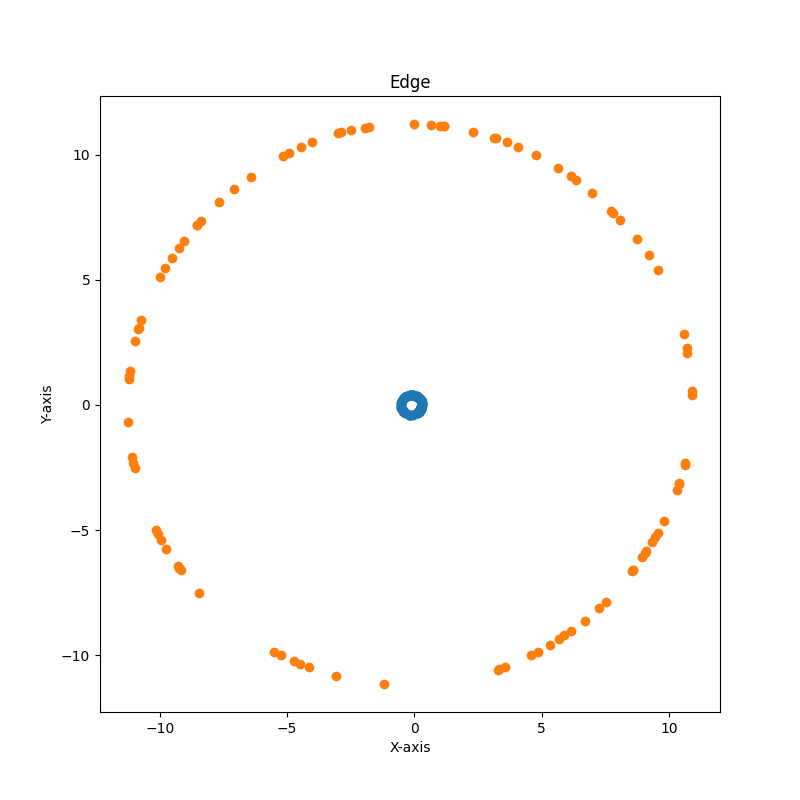
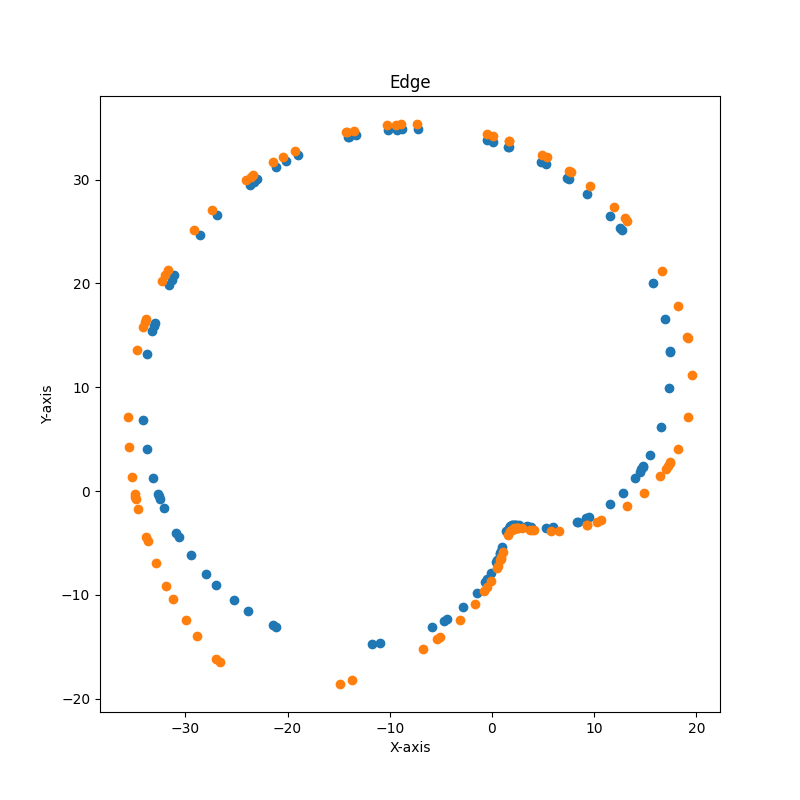
SGN-theta-heu-get_R

diff --git a/iod/metra.py b/iod/metra.py
@@ -147,10 +147,11 @@ class METRA(IOD):
     def _get_concat_obs(self, obs, option):
         return get_torch_concat_obs(obs, option)
 
-    def _clip_phi_g(self, goal):
+    def _clip_phi_g(self, goal, lower_value=-300, upper_value=300):
         epsilon = 1e-6
-        lower = -300 * torch.ones(self.dim_option).to(self.device) + epsilon
-        upper = 300 * torch.ones(self.dim_option).to(self.device) + epsilon
+        dim = goal.shape[-1]
+        lower = lower_value * torch.ones(dim).to(self.device) + epsilon
+        upper = upper_value * torch.ones(dim).to(self.device) + epsilon
 
         clip_up = (goal > upper).float()
         clip_down = (goal < lower).float()
@@ -209,20 +210,65 @@ class METRA(IOD):
         regret = torch.abs(r + discount * q_next - q)
         return regret
     
+    @torch.no_grad()
+    def get_R(self, phi_s_f, phi_g, sample_batch):
+        train_max_count = 100
+        Network_Update = torch.zeros((sample_batch)).to(self.device)
+        Sample_Update = torch.zeros((sample_batch)).to(self.device)
+        Network_R_std = torch.zeros((sample_batch)).to(self.device)
+        if self.Network_None_Update_count == None:
+            self.Network_None_Update_count = torch.zeros((sample_batch), dtype=int).to(self.device)
+            self.Network_R = torch.zeros((sample_batch, train_max_count)).to(self.device)
+        R = torch.zeros(sample_batch).to(self.device)
+        phi_g_sf_distance_score =  1 / (1 + torch.norm(phi_g - phi_s_f, dim=-1).detach())
+        # 对于每条数据独立判E定和更新；
+        for i in range(sample_batch):
+            R[i] = phi_g_sf_distance_score[i]
+                
+            self.Network_R[i][self.Network_None_Update_count[i]] = R[i]
+            if self.Network_None_Update_count[i] > 0:
+                if self.Network_None_Update_count[i] <= 5:
+                    Network_R_std[i] = torch.std(self.Network_R[i][:self.Network_None_Update_count[i]+1])
+                else:
+                    Network_R_std[i] = torch.std(self.Network_R[i][self.Network_None_Update_count[i]-5 : self.Network_None_Update_count[i]+1 ])
+            else:
+                Network_R_std[i] = R[i]
+            self.Network_None_Update_count[i] = self.Network_None_Update_count[i] + 1
+                
+            # 判定是否需要更新目标；
+            if R[i] >= 0.5: 
+                # 说明学会了，要更新网络，向更远的方向；
+                Network_Update[i] = 1       # 1 是学会了
+                Sample_Update[i] = 1        # 要更新phi_g
+                self.Network_None_Update_count[i] = 0
+                self.Network_R[i] = torch.zeros_like(self.Network_R[i])
+            elif (Network_R_std[i] < 0.05 and self.Network_None_Update_count[i] > 10) or self.Network_None_Update_count[i] >= 50:
+                # 说明学不会，不更新网路，但更新phi_g;
+                # 我试试反向更新；我想让网络的mean有变化；
+                Network_Update[i] = -1      # 是没学会；
+                Sample_Update[i] = 1        # 要更新phi_g
+                self.Network_None_Update_count[i] = 0
+                self.Network_R[i] = torch.zeros_like(self.Network_R[i])
+                
+        return Network_Update, Sample_Update, R
+
+    def AsymmetricLoss(self, value, alpha_pos=1, alpha_neg=-0.1):
+        mask = torch.where(value>0, 1, 0)
+        loss = alpha_pos * mask * value + alpha_neg * (1-mask) * value
+        return loss 
+
 
     '''
     For soft-update
     '''
-    def update_target_traj(self):
-        # theta = 5e-2
-        theta = 1
+    def update_target_traj(self, theta = 2e-5):
         for t_param, param in zip(self.target_traj_encoder.parameters(), self.traj_encoder.parameters()):
             t_param.data.copy_(t_param.data * (1.0 - theta) + param.data * theta)
     
     def _flatten_data(self, data):
         epoch_data = {}
         epoch_final = {}
-        num_her = 1
+        num_her = 0
         num_sample_batch = 8
         for key, value in data.items():
             epoch_data[key] = torch.tensor(np.concatenate(value, axis=0), dtype=torch.float32, device=self.device)
@@ -259,6 +305,7 @@ class METRA(IOD):
         return data
     
     
+
     
     '''
     【0】 计算online时的option；
@@ -458,83 +505,51 @@ class METRA(IOD):
                     exp_theta = self.vec_norm(phi_s_f - phi_s_0)
             
                     if self.goal_sample_optim is None:
-                        self.goal_sample_optim = optim.SGD(self.goal_sample_network.parameters(), lr=1e-3)
+                        self.goal_sample_optim = optim.SGD(self.goal_sample_network.parameters(), lr=1e-2)
                         self.last_phi_g = phi_s_f
+                        
                     s_f_L = torch.norm(phi_s_f - phi_s_0, dim=-1) 
                     theta_L = self.goal_sample_network(exp_theta)
-                    theta_L_mean = theta_L.mean
+                    theta_L_mean = self._clip_phi_g(theta_L.mean)
                     theta_L_stddev = theta_L.stddev
                     s_g_L = torch.norm(self.last_phi_g - phi_s_0, dim=-1) 
                     s_g_L_log_probs = theta_L.log_prob(s_g_L)
-                    
-                    # 计算R
-                    train_max_count = 100
-                    Network_Update = torch.zeros((sample_batch)).to(self.device)
-                    Sample_Update = torch.zeros((sample_batch)).to(self.device)
-                    Network_R_std = torch.zeros((sample_batch)).to(self.device)
-                    if self.Network_None_Update_count == None:
-                        self.Network_None_Update_count = torch.zeros((sample_batch), dtype=int).to(self.device)
-                        self.Network_R = torch.zeros((sample_batch, train_max_count)).to(self.device)
-                    R = torch.zeros(sample_batch).to(self.device)
-                    phi_g_sf_distance_score =  1 / (1 + torch.norm(self.last_phi_g - phi_s_f, dim=-1).detach())
-                    # 对于每条数据独立判E定和更新；
-                    for i in range(sample_batch):
-                        R[i] = phi_g_sf_distance_score[i]
-                             
-                        self.Network_R[i][self.Network_None_Update_count[i]] = R[i]
-                        if self.Network_None_Update_count[i] > 0:
-                            Network_R_std[i] = torch.std(self.Network_R[i][:self.Network_None_Update_count[i]+1])
-                        else:
-                            Network_R_std[i] = R[i]
-                        self.Network_None_Update_count[i] = self.Network_None_Update_count[i] + 1
-                            
-                        # 判定是否需要更新目标；
-                        if R[i] >= 0.5: 
-                            # 说明学会了，要更新网络，向更远的方向；
-                            Network_Update[i] = 1       # 1 是学会了
-                            Sample_Update[i] = 1        # 要更新phi_g
-                            self.Network_None_Update_count[i] = 0
-                            self.Network_R[i] = torch.zeros_like(self.Network_R[i])
-                        elif (Network_R_std[i] < 0.05 and self.Network_None_Update_count[i] > 2) or self.Network_None_Update_count[i] >= 10:
-                            # 说明学不会，不更新网路，但更新phi_g;
-                            # 我试试反向更新；我想让网络的mean有变化；
-                            Network_Update[i] = -1      # 是没学会；
-                            Sample_Update[i] = 1        # 要更新phi_g
-                            self.Network_None_Update_count[i] = 0
-                            self.Network_R[i] = torch.zeros_like(self.Network_R[i])
-                            
+                    # calculate R
+                    Network_Update, Sample_Update, R = self.get_R(phi_s_f=phi_s_f, phi_g=self.last_phi_g, sample_batch=sample_batch)
                     # 更新网络
                     # 对于mean的更新：
-                    loss_mean = (torch.abs(Network_Update) * (s_f_L- theta_L_mean.squeeze(-1))**2).mean()
+                    loss_mean = torch.abs(Network_Update) * self.AsymmetricLoss(s_f_L - theta_L_mean.squeeze(-1))
                     # 对于分布的更新；
-                    # loss_std = (Network_Update * 1 * theta_L_stddev.squeeze(-1)).mean()
-                    loss_std = (torch.abs(Network_Update) * s_g_L_log_probs * R).mean()
-                    loss = ((loss_std + loss_mean)).mean()
+                    loss_std = self.AsymmetricLoss(-Network_Update * 1 * theta_L_stddev.squeeze(-1),alpha_neg=1, alpha_pos=0.1)
+                    # loss_std = (torch.abs(Network_Update) * s_g_L_log_probs * R).mean()
+                    loss = (loss_mean + loss_std).mean()
                     self.goal_sample_optim.zero_grad()
                     loss.backward()
                     self.goal_sample_optim.step()
                     
                     # 推理，获取新的phi_g
                     with torch.no_grad():
-                        freeze_direction = [
-                            [1,0],
-                            [1,1],
-                            [0,1],
-                            [-1,1],
-                            [-1,0],
-                            [-1,-1],
-                            [0,-1],
-                            [1,-1], 
-                        ]
-                        freeze_direction = torch.tensor(freeze_direction, dtype=torch.float32).to(self.device)
+                        # 1) freeze:
+                        # freeze_direction = [[1,0],[1,1],[0,1],[-1,1],[-1,0],[-1,-1],[0,-1],[1,-1]]
+                        # freeze_direction = torch.tensor(freeze_direction, dtype=torch.float32).to(self.device)
+                        # randn_exp_theta = self.vec_norm(freeze_direction)
+                        # 2) random:
                         # randn_exp_theta = self.vec_norm(torch.randn_like(self.last_phi_g)).to(self.device)
-                        
-                        randn_exp_theta = self.vec_norm(freeze_direction)
-                        
-                        theta_L = self.goal_sample_network(randn_exp_theta)
-                        theta_L_mean = theta_L.mean
-                        theta_L_stddev = theta_L.stddev
-                        
+                        # theta_L = self.goal_sample_network(randn_exp_theta)
+                        # theta_L_mean = self._clip_phi_g(theta_L.mean)
+                        # theta_L_stddev = theta_L.stddev
+                        # 3) 启发式:
+                        num_sample = 12
+                        randn_exps = torch.randn((num_sample, 2)).to(self.device)
+                        randn_exps = self.vec_norm(randn_exps)
+                        theta_Ls = self.goal_sample_network(randn_exps)
+                        theta_Ls_mean = theta_Ls.mean
+                        theta_Ls_stddev = theta_Ls.stddev
+                        values, indices = torch.topk(theta_Ls_stddev.squeeze(-1), sample_batch)
+                        theta_L_mean = theta_Ls_mean[indices]
+                        theta_L_stddev = theta_Ls_stddev[indices]
+                        randn_exp_theta = randn_exps[indices]
+        
                     # 更新新的phi_g
                     next_phi_g = phi_s_0 + (theta_L_mean + torch.rand_like(theta_L_stddev) * theta_L_stddev) * randn_exp_theta
                     self.last_phi_g = Sample_Update.unsqueeze(-1) * next_phi_g + (1 - Sample_Update.unsqueeze(-1)) * self.last_phi_g
@@ -544,8 +559,8 @@ class METRA(IOD):
 
                     if wandb.run is not None:
                         wandb.log({
-                                "theta/loss_mean": loss_mean.detach(),
-                                "theta/loss_std": loss_std.detach(),
+                                "theta/loss_mean": loss_mean.detach().mean(),
+                                "theta/loss_std": loss_std.detach().mean(),
                                 "theta/loss": loss.detach(),
                                 }) 
                         Mean = theta_L_mean
@@ -556,11 +571,12 @@ class METRA(IOD):
                                         "theta/std-" + str(i): float(Stddev[i][0].cpu()),
                                         "theta/R-" + str(i): float(R[i].cpu()),
                                         })
-                    if runner.step_itr % 100 == 0:
-                        file_name = 'SampleGoalNet.pt'
-                        torch.save({
-                            'SampleGoalNet': self.goal_sample_network,
-                        }, file_name)
+                        if runner.step_itr % 50 == 0:
+                            path = wandb.run.dir
+                            file_name = os.path.join(path, 'SampleGoalNet.pt')
+                            torch.save({
+                                'SampleGoalNet': self.goal_sample_network,
+                            }, file_name)
                 else:
                     extras = self._generate_option_extras(random_options)  
             
@@ -693,13 +709,17 @@ class METRA(IOD):
         if self.method['phi'] in ['soft_update', 'her_reward', 'contrastive']:   
             sub_goal = v['sub_goal']
             option = v['options']
-
-            goal_z = self.target_traj_encoder(sub_goal).mean.detach()
-            # goal_z = v['phi_sub_goal']
+            # goal_z = self.target_traj_encoder(sub_goal).mean.detach()
+            goal_z = v['phi_sub_goal']
+            final_goal_z = v['phi_sub_goal']
+            
             target_cur_z = self.target_traj_encoder(obs).mean.detach()
             target_next_z = self.target_traj_encoder(next_obs).mean.detach()
             option_goal = self.vec_norm(goal_z - target_cur_z)
             next_option_goal = self.vec_norm(goal_z - target_next_z)
+            
+            option_final_goal = self.vec_norm(final_goal_z - target_cur_z)
+            
             option_s_s_next = next_z - cur_z
             ###########################################
             v.update({
@@ -710,6 +730,8 @@ class METRA(IOD):
                 'option_goal': option_goal,             # 是phi_sub_g - phi_s / norm()
                 'option_s_s_next': option_s_s_next,     # 是phi_s_next - phi_s
                 'next_option_goal': next_option_goal,   # 为了输入next_option
+                'final_goal_z': final_goal_z,
+                # 'option_final_goal': option_final_goal,           # 采样traj.的目标goal。为了标定；
             })
             ###########################################
             
@@ -757,11 +779,16 @@ class METRA(IOD):
             option_goal = v['option_goal']
             # option_goal_detach = v['option_goal'].detach()
             samples = self.traj_encoder(v['pos_sample']).mean
+            
+            # zhanghe:0819
+            # 为了标定，使用:final_goal_z
+            # final_goal_z = v['final_goal_z']
+            # final_g_weight = 0.1
+            # samples = (1-final_g_weight) * samples + final_g_weight * final_goal_z
+            
+            # discount weight
             discount = 0.99
             w = discount ** (v['pos_sample_distance'])
-            
-            ## goal-conditioned contrastive leraning
-            ## 有bug，训练的时候neg是0，pos没有上升过；
             vec_phi_s_s_next = phi_s_next - phi_s
             vec_phi_sample = samples
             
@@ -876,7 +903,9 @@ class METRA(IOD):
                 
             # 对应的reward
             assert v['option_s_s_next'].shape == option.shape, (v['option_s_s_next'].shape, option.shape)
-            goal_reward = ((v['option_s_s_next']) * option).sum(dim=1) 
+            # goal_reward = ((v['option_s_s_next']) * option).sum(dim=1) 
+            # 引入标定:final_goal_z
+            goal_reward = ((v['option_s_s_next']) * option ).sum(dim=1) 
             
             # final reward
             policy_rewards = goal_reward * self._reward_scale_factor

diff --git a/tests/plot_prob.py b/tests/plot_prob.py
@@ -72,7 +72,8 @@ goal_sample_network = module_cls(**module_kwargs).to('cuda')
 def vec_norm(vec):
     return vec / (torch.norm(vec, p=2, dim=-1, keepdim=True) + 1e-8)
 
-SampleGoalNet = torch.load("/data/zh/project12_Metra/METRA/SampleGoalNet.pt")['SampleGoalNet']
+SGN_path = '/data/zh/project12_Metra/METRA/exp/Debug_baseline/SGN-theta-randomsd000_1724064902_ant_maze_metra/wandb/latest-run/files/SampleGoalNet.pt'
+SampleGoalNet = torch.load(SGN_path)['SampleGoalNet']
 
 
 directions = vec_norm(torch.randn((100, 2))).to('cuda')
@@ -94,7 +95,8 @@ plt.scatter(x=edge_std[:,0], y=edge_std[:,1])
 plt.title('Edge')
 plt.xlabel('X-axis')
 plt.ylabel('Y-axis')
-plt.savefig('test.png')
+img_path = SGN_path[:-2] + '.png'
+plt.savefig(img_path)
 
 
 # # 生成网格数据

diff --git a/iod/iod.py b/iod/iod.py
@@ -402,7 +402,7 @@ class IOD(RLAlgorithm):
                 data['pos_sample'].append(path_subgoal)
     
             ## for HER resample sub_goal:
-            if self.sample_type in ['her_reward', 'contrastive']:
+            if self.sample_type in ['her_reward']:
                 num_her = 1
                 subgoal_indices = np.random.choice(traj_len, num_her, replace=False)
                 for j in range(len(subgoal_indices)):

diff --git a/tests/main.py b/tests/main.py
@@ -349,8 +349,8 @@ def run(ctxt=None):
         input_dim=args.dim_option,
         output_dim=1,
         init_std=10.,
-        min_std=0.1,
-        max_std=20.,
+        min_std=5,
+        max_std=50.,
     )
     goal_sample_network = module_cls(**module_kwargs)
 
